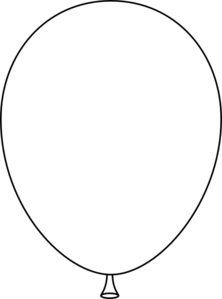
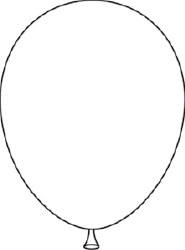
Fixed new vectors

diff --git a/index.html b/index.html
@@ -155,7 +155,7 @@
                             </p>
                         </div>
                         <div class="col-md-4">
-                            <img src="img/plant.svg" style="width: 50%; height: 50%; padding-top:5em; padding-bottom:6em;" align="center" >
+                            <img src="img/sprinkler.png" style="width: 30%; height: 30%; padding-top:5.6em; padding-bottom:6.5em;" align="center" >
                             <br>
                             <br>
                             <a class="project-title" target="blank" href="https://github.com/CarletonSLAM/tulipsandpopcorn" >Smart Irrigation System for Circular Farms</a>
@@ -203,19 +203,19 @@
 				  <div class="col-xs-12 col-sm-8">
 						<div class="contact-vspace">
 							<a href="https://github.com/irushavm" target="_blank">
-								<img src="img/gh.png" class="img-responsive logo-padding" alt="Responsive image" style="width: 10%; height: 10%;" align="left" >
+								<img src="img/gh.png" class="img-responsive logo-padding" alt="Responsive image" style="width: 8%; height: 8%;" align="left" >
 							</a>
 							<a class="contact-font" href="https://github.com/irushavm" target="_blank" align="center" > Github Profile </a>
 						</div>
 						<div class="contact-vspace" >
 							<a  href="mailto:irusha@vidanamadura.net" target="_top">
-								<img src="img/mail.png" class="img-responsive logo-padding" alt="Responsive image" style="width: 10%; height: 10%;" align="left" > 
+								<img src="img/mail.png" class="img-responsive logo-padding" alt="Responsive image" style="width: 8%; height: 8%;" align="left" > 
 							</a>
 							<a class="contact-font" href="mailto:irusha@vidanamadura.net" target="_top" align="center" >irusha@vidanamadura.net</a>
 						</div>
 						<div class="contact-vspace" >
 							<a href="https://ca.linkedin.com/in/irushavm" target="_blank" >
-								<img src="img/linkedIn.png" class="img-responsive logo-padding" alt="Responsive image" style="width: 10%; height: 10%;" align="left">
+								<img src="img/linkedIn.png" class="img-responsive logo-padding" alt="Responsive image" style="width: 8%; height: 8%;" align="left">
 							</a>
 							<a class="contact-font" href="https://ca.linkedin.com/in/irushavm" target="_blank" align="center"  > Linked-in Profile </a>
 						</div>

diff --git a/css/extra/scrolling-nav.css b/css/extra/scrolling-nav.css
@@ -184,9 +184,15 @@ p.big-font{
 
 .contact-font{
 
-	font-size: 20pt;
+	font-size: 18pt;
     color:#FFFFFF;
 }
+
+a..contact-font:hover{
+  text-decoration: none;
+  border-bottom: 1px solid #CF363A;
+}
+
 
 hr {
   margin-top: 0px;
